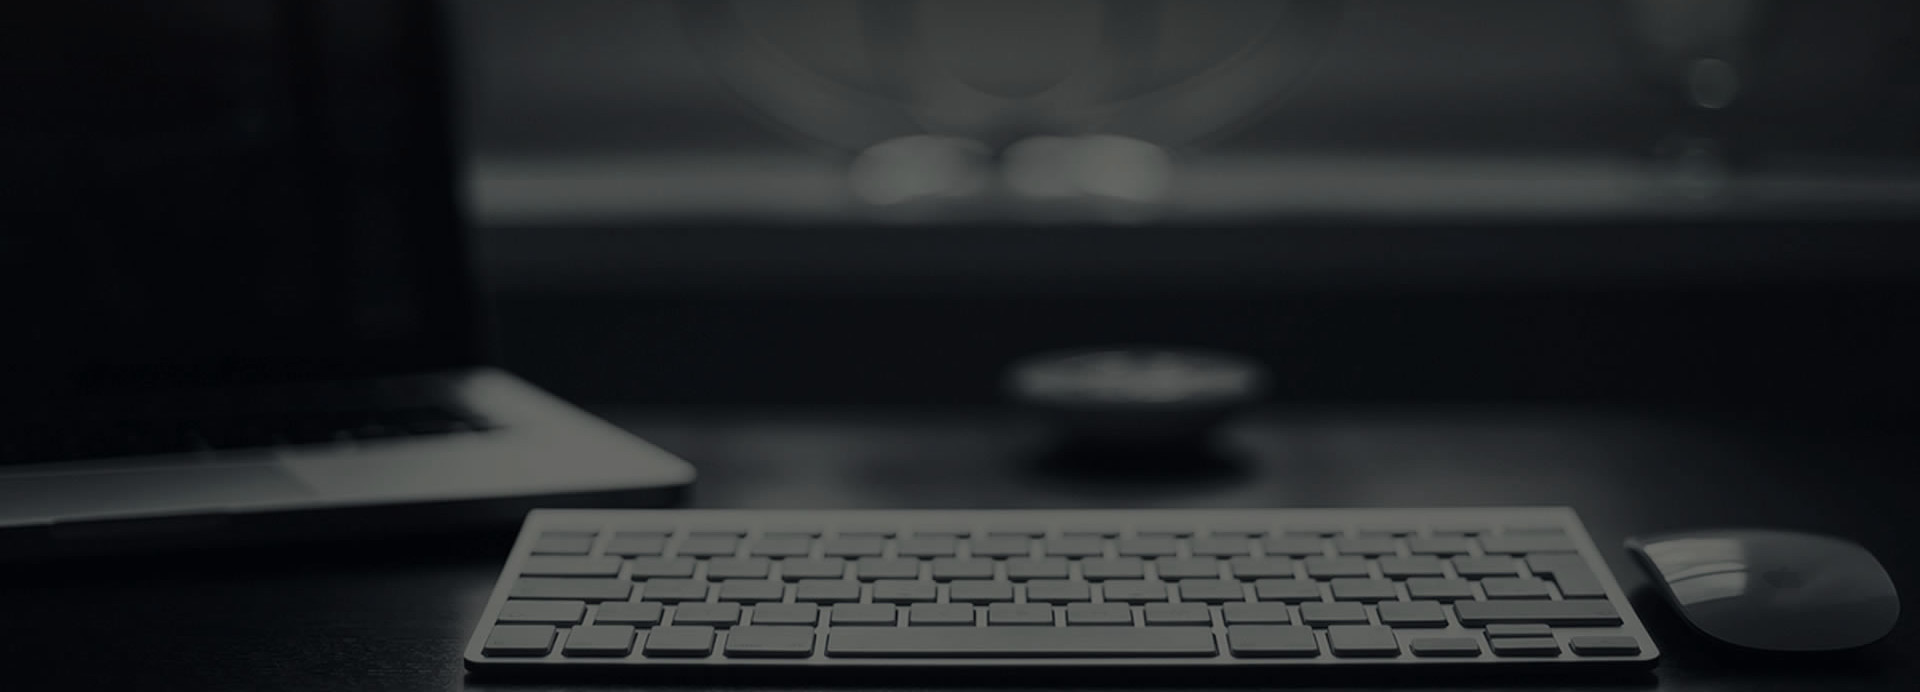
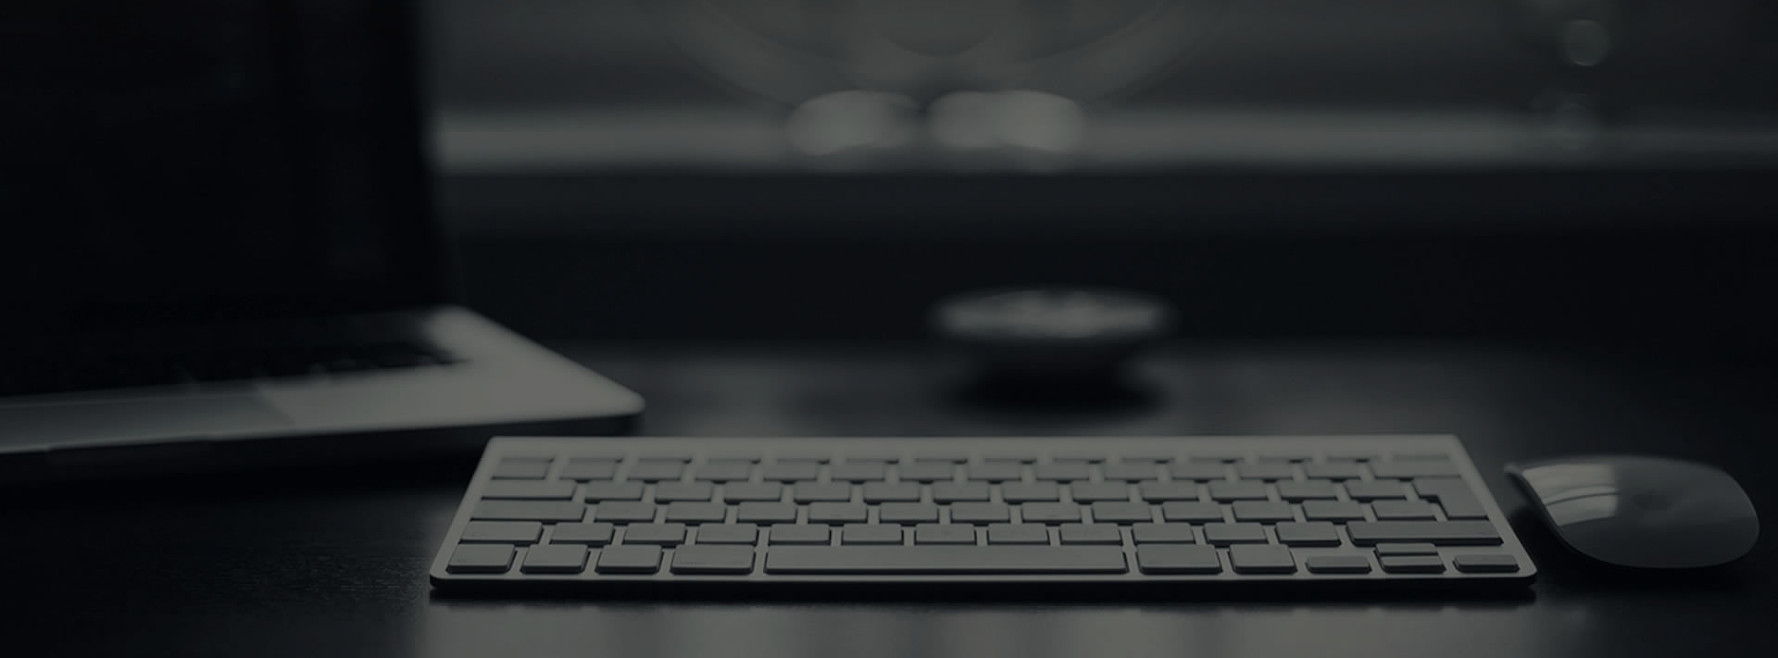
Adição de efeito de Parallax

Changed region(s): [[0.0, 0.4255, 0.9899, 1.0], [0.2165, 0.1216, 1.0, 0.3343]]

diff --git a/src/components/layout.js b/src/components/layout.js
@@ -5,17 +5,18 @@ import { Container } from 'rsuite';
 import { library } from '@fortawesome/fontawesome-svg-core';
 import { fab } from '@fortawesome/free-brands-svg-icons';
 import { faEnvelope, faMapMarkerAlt } from '@fortawesome/free-solid-svg-icons';
+import { Parallax } from 'react-scroll-parallax';
 
-import { Footer, Main } from '../styles';
+import { Footer, Main, BackgroundContainer, } from '../styles';
 import Header from "./header";
 import { Social } from "./custom";
 import { FontAwesomeIcon } from "@fortawesome/react-fontawesome";
-// import "../../node_modules/rsuite/dist/styles/rsuite-default.min.css";
+import { ParallaxProvider } from 'react-scroll-parallax';
 import "./layout.css";
 
 library.add(fab);
 
-const Layout = ({ children, breakpoint }) => {
+const Layout = ({ children, breakpoint, topComponent: Top, showTopComponent = true }) => {
     const data = useStaticQuery(graphql`
         query SiteTitleQuery {
             site {
@@ -36,45 +37,52 @@ const Layout = ({ children, breakpoint }) => {
     `);
 
     return (
-        <Container>
-            <Header siteTitle={data.site.siteMetadata.title} breakpoint={breakpoint} />
-            <Main>
-                {children}
-            </Main>
-            <Footer>
-                <div>
-                    {data.site.siteMetadata.email.map((email, index) => (
-                        <h6 key={index}>
-                            <FontAwesomeIcon icon={faEnvelope} color='white' />
+        <ParallaxProvider>
+            <Container>
+                <Header siteTitle={data.site.siteMetadata.title} breakpoint={breakpoint} />
+                <Main>
+                    {showTopComponent && <Parallax className="w-full" y={[-30, 20]}>
+                        <BackgroundContainer>
+                            <Top />
+                        </BackgroundContainer>
+                    </Parallax>}
+                    {children}
+                </Main>
+                <Footer>
+                    <div>
+                        {data.site.siteMetadata.email.map((email, index) => (
+                            <h6 style={{ marginBottom: '3%' }} key={index}>
+                                <FontAwesomeIcon icon={faEnvelope} color='white' />
+                                {` `}
+                                {email}
+                            </h6>
+                        ))}
+                        <h6 style={{ marginBottom: '3%' }}>
+                            <FontAwesomeIcon icon={['fab', 'whatsapp']} color='white' />
                             {` `}
-                            {email}
+                            {data.site.siteMetadata.whatsapp}
                         </h6>
-                    ))}
-                    <h6>
-                        <FontAwesomeIcon icon={['fab', 'whatsapp']} color='white' />
-                        {` `}
-                        {data.site.siteMetadata.whatsapp}
-                    </h6>
-                    <h6>
-                        <FontAwesomeIcon icon={faMapMarkerAlt} color='white' />
-                        {` `}
-                        {data.site.siteMetadata.location}
-                    </h6>
-                </div>
-                <div style={{ maxWidth: "200px", textAlign: 'center' }}>
-                    {data.site.siteMetadata.author}{` `}
-                    © {new Date().getFullYear()}, Built with
+                        <h6 style={{ marginBottom: '3%' }}>
+                            <FontAwesomeIcon icon={faMapMarkerAlt} color='white' />
+                            {` `}
+                            {data.site.siteMetadata.location}
+                        </h6>
+                    </div>
+                    <div style={{ maxWidth: "200px", textAlign: 'center', marginBottom: '5%', marginTop: '2%' }}>
+                        {data.site.siteMetadata.author}{` `}
+                        © {new Date().getFullYear()}, Built with
                     {` `}
-                    <a href="https://www.gatsbyjs.org">Gatsby</a>
-                </div>
-                <div>
-                    {data.site.siteMetadata.social
-                        ? <Social data={data.site.siteMetadata.social} />
-                        : null
-                    }
-                </div>
-            </Footer>
-        </Container>
+                        <a href="https://www.gatsbyjs.org">Gatsby</a>
+                    </div>
+                    <div>
+                        {data.site.siteMetadata.social
+                            ? <Social data={data.site.siteMetadata.social} />
+                            : null
+                        }
+                    </div>
+                </Footer>
+            </Container>
+        </ParallaxProvider>
     )
 }
 

diff --git a/src/pages/projects.js b/src/pages/projects.js
@@ -1,18 +1,52 @@
 import React from "react";
-import { Container } from '../styles';
+import { graphql } from 'gatsby';
+import {
+    Container,
+    Wrapper,
+} from '../styles';
 
 import {
     Layout,
     SEO,
 } from '../components';
 
-export default () => {
+export default ({ data }) => {
+    const projects = data.allCosmicjsProjects.edges;
     return (
-        <Layout breakpoint={(typeof window !== 'undefined') ? window.innerHeight / 3 : undefined} >
+        <Layout
+            breakpoint={(typeof window !== 'undefined') ? window.innerHeight / 3 : undefined}
+            topComponent={() => <h1 className='text-center text-white'>Full-stack software development</h1>}
+        >
             <SEO title="Projects" keywords={[`lucas medeiros`, `projetos`, `projects`]} />
             <Container>
-                <h2>Projetos aqui...</h2>
+                <Wrapper>
+                    {projects.map((project, index) => {
+                        console.log(project)
+                        const { link, name } = project.node.metadata;
+                        return <a key={index} target='_blank' rel="noopener noreferrer" href={link}>{name}</a>
+                    })}
+                </Wrapper>
             </Container>
         </Layout>
     );
 }
+
+export const query = graphql`
+    query Index {
+        allCosmicjsProjects {
+            edges {
+                node {
+                    title
+                    metadata {
+                        name
+                        description
+                        link
+                        image {
+                            url
+                        }
+                    }
+                }
+            }
+        }
+  }
+`

diff --git a/src/styles/index.js b/src/styles/index.js
@@ -1,6 +1,6 @@
 import styled from 'styled-components';
 import devices from './devices';
-import background from '../assets/background.jpg';
+import Background from '../assets/background.jpg';
 
 export const Container = styled.div`
     color: #404040;
@@ -10,10 +10,12 @@ export const Container = styled.div`
     width: 100%;
     flex-wrap: wrap;
     flex: 1;
+    z-index: 1;
 `;
 
 export const Footer = styled.footer`
     width: 100%;
+    padding: 1em 0 1em 0;
     min-height: 200px;
     position: relative;
     display: flex;
@@ -31,11 +33,10 @@ export const Footer = styled.footer`
 `;
 
 export const BackgroundContainer = styled.section`
-    background-image: url(${background});
+    background-image: url(${Background});
     background-repeat: no-repeat;
     background-position: center;
     background-size: cover;
-    padding-top: 20px;
     display: flex;
     justify-content: center;
     align-items: center;
@@ -43,6 +44,7 @@ export const BackgroundContainer = styled.section`
     width: 100%;
     height: 65vh;
     box-shadow: inset 0 0 0 1000px rgba(0,0,0,.7);
+    z-index: -1;
 `;
 
 export const Main = styled.main`
@@ -50,16 +52,17 @@ export const Main = styled.main`
 `;
 
 export const Wrapper = styled.div`
-    margin: 0 auto;
-    max-width: 1080px;
-    padding: 4em 2em 8em 2em;
+    width: 100%;
+    padding: 2em 2em 8em 2em;
     display: flex;
     flex-direction: column;
     align-items: flex-start;
     flex-wrap: wrap;
+    z-index: 2;
+    background-color: white;
 
     @media ${devices.laptop} {
-        padding: 4em 0 8em 0;
+        padding: 2em 8em 8em 8em;
         flex-direction: row;
     }
 `;

diff --git a/src/pages/index.js b/src/pages/index.js
@@ -2,30 +2,25 @@ import React from "react";
 import { FontAwesomeIcon } from "@fortawesome/react-fontawesome";
 import {
     Container,
-    BackgroundContainer,
     Wrapper,
     RoundedImage,
     Grid
 } from '../styles';
-
 import {
     Layout,
     SEO,
 } from '../components';
-
 import Photo from '../assets/photo.jpg';
 import { calculateAge } from "../util";
 
 export default () => {
-
     return (
-        <Layout breakpoint={(typeof window !== 'undefined') ? window.innerHeight / 3 : undefined} >
+        <Layout
+            breakpoint={(typeof window !== 'undefined') ? window.innerHeight / 3 : undefined}
+            topComponent={() => <h1 className='text-center text-white'>Full-stack software development</h1>}
+        >
             <SEO title="Home" keywords={[`lucas medeiros`, `developer`, `application`, `react`]} />
-            <Container>
-                <BackgroundContainer>
-                    <h1 className='text-center text-white'>Full-stack software development</h1>
-                </BackgroundContainer>
-
+            <Container style={{ backgroundColor: 'white', zIndex: 2 }}>
                 <Wrapper>
                     <Container>
                         <h1 className='font-bold'>Summary</h1>

diff --git a/src/pages/about.js b/src/pages/about.js
@@ -1,7 +1,6 @@
 import React from "react";
 import {
     Container,
-    BackgroundContainer,
     Wrapper,
     RoundedImage
 } from '../styles';
@@ -17,13 +16,17 @@ import { calculateAge } from "../util";
 export default () => {
 
     return (
-        <Layout breakpoint={(typeof window !== 'undefined') ? window.innerHeight / 3 : undefined} >
-            <SEO title="About" keywords={[`lucas medeiros`, `sobre`, `about`]} />
-            <Container>
-                <BackgroundContainer>
+        <Layout
+            breakpoint={(typeof window !== 'undefined') ? window.innerHeight / 3 : undefined}
+            topComponent={() => (
+                <>
                     <RoundedImage src={Photo} />
                     <h1 className='font-bold text-white text-center'>Lucas de Medeiros Nunes Fernandes</h1>
-                </BackgroundContainer>
+                </>
+            )}
+        >
+            <SEO title="About" keywords={[`lucas medeiros`, `sobre`, `about`]} />
+            <Container>
 
                 <Wrapper>
                     <h1 className='font-bold w-full'>About me</h1>

diff --git a/src/pages/contact.js b/src/pages/contact.js
@@ -1,5 +1,8 @@
 import React from "react";
-import { Container } from '../styles';
+import {
+    Container,
+    Wrapper,
+} from '../styles';
 
 import {
     Layout,
@@ -8,10 +11,15 @@ import {
 
 export default () => {
     return (
-        <Layout breakpoint={(typeof window !== 'undefined') ? window.innerHeight / 3 : undefined} >
+        <Layout
+            breakpoint={(typeof window !== 'undefined') ? window.innerHeight / 3 : undefined}
+            topComponent={() => <h1 className='text-center text-white'>Full-stack software development</h1>}
+        >
             <SEO title="Contact" keywords={[`lucas medeiros`, `contact`, `contato`]} />
             <Container>
-                <h2>Contato aqui</h2>
+                <Wrapper>
+                    <h2>Contatos aqui...</h2>
+                </Wrapper>
             </Container>
         </Layout>
     );

diff --git a/src/components/header.js b/src/components/header.js
@@ -39,7 +39,7 @@ const Header = ({ siteTitle }) => {
 
 
     function handleScroll() {
-        let breakpoint = window.innerHeight * 0.1;
+        let breakpoint = window.innerHeight * 0.2;
         if (window.scrollY > breakpoint)
             setScrollTop(false);
         else
